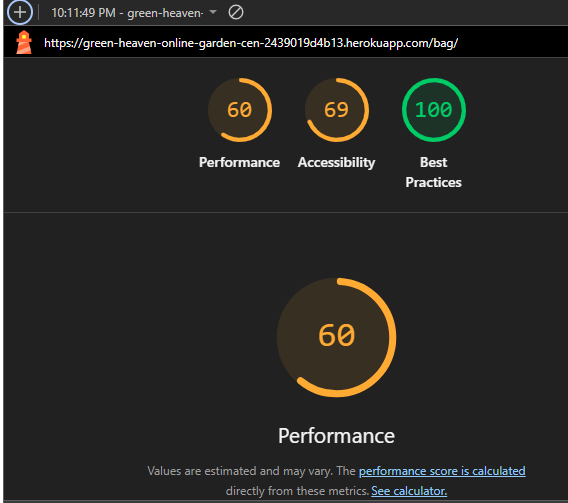
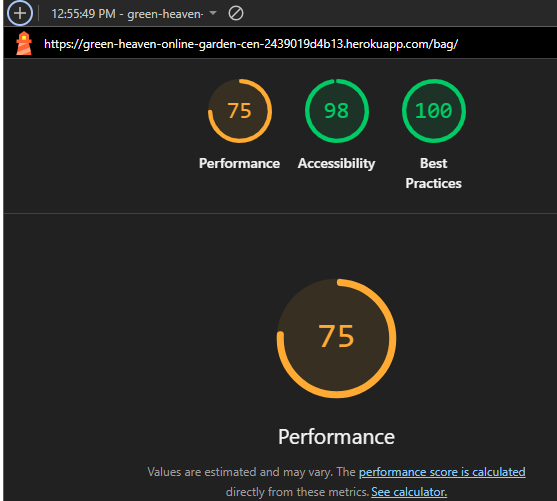
checkout updated for accessibility

diff --git a/checkout/templates/checkout/checkout.html b/checkout/templates/checkout/checkout.html
@@ -40,11 +40,11 @@
                 {% for item in bag_items %}
                     <div class="row">
                         <div class="col-2 mb-1">
-                            <a href="{% url 'product_detail' item.product.id %}">
+                            <a href="{% url 'product_detail' item.product.id %}" aria-label="View details for {{ item.product.name }}">
                                 {% if item.product.image %}
-                                    <img class="w-100" src="{{ item.product.image.url }}" alt="{{ product.name }}">
+                                    <img class="w-100" src="{{ item.product.image.url }}" alt="{{ item.product.name }}">
                                 {% else %}
-                                    <img class="w-100" src="{{ MEDIA_URL }}noimage.png" alt="{{ product.name }}">
+                                    <img class="w-100" src="{{ MEDIA_URL }}noimage.png" alt="{{ item.product.name }}">
                                 {% endif %}
                             </a>
                         </div>
@@ -77,12 +77,12 @@
                 <form action="{% url 'checkout' %}" method="POST" id="payment-form">
                     {% csrf_token %}
                     <fieldset class="rounded px-3 mb-5">
-                        <legend class="fieldset-label small text-black px-2 w-auto">Details</legend>
+                        <legend class="fieldset-label small text-black px-2 w-auto" aria-label="Personal Details">Details</legend>
                         {{ order_form.full_name | as_crispy_field }}
                         {{ order_form.email | as_crispy_field }}
                     </fieldset>
                     <fieldset class="rounded px-3 mb-5">
-                        <legend class="fieldset-label small text-black px-2 w-auto">Delivery</legend>
+                        <legend class="fieldset-label small text-black px-2 w-auto" aria-label="Address Details">Delivery</legend>
                         {{ order_form.phone_number | as_crispy_field }}
                         {{ order_form.country | as_crispy_field }}
                         {{ order_form.postcode | as_crispy_field }}
@@ -96,8 +96,8 @@
                                 <input class="form-check-input ml-2 mr-0" type="checkbox" id="id-save-info" name="save-info" checked>
 							{% else %}
 								<label class="form-check-label" for="id-save-info">
-                                    <a class="text-info" href="{% url 'account_signup' %}">Create an account</a> or 
-                                    <a class="text-info" href="{% url 'account_login' %}">login</a> to save this information
+                                    <a class="text-primary" href="{% url 'account_signup' %}">Create an account</a> or 
+                                    <a class="text-primary" href="{% url 'account_login' %}">login</a> to save this information
                                 </label>
 							{% endif %}
 						</div>

diff --git a/templates/base.html b/templates/base.html
@@ -93,7 +93,7 @@
               </div>
             </li>
             <li class="list-inline-item">
-              <a class="{% if grand_total %}text-info font-weight-bold{% else %}text-black{% endif %} nav-link" href="{% url 'view_bag' %}">
+              <a class="{% if grand_total %}text-primary font-weight-bold{% else %}text-black{% endif %} nav-link" href="{% url 'view_bag' %}">
                 <div class="text-center">
                   <div><i class="fas fa-shopping-bag fa-lg"></i></div>
                   <p class="my-0">
